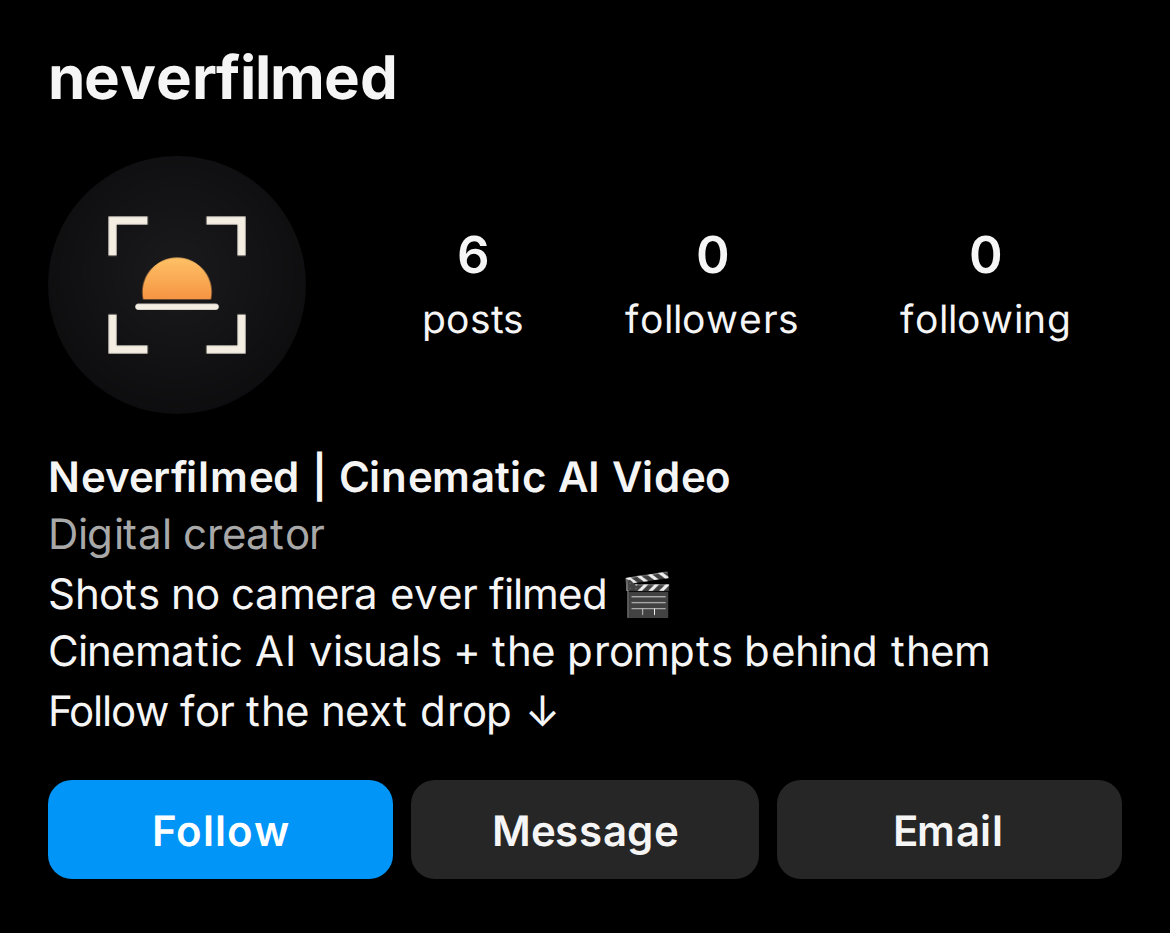
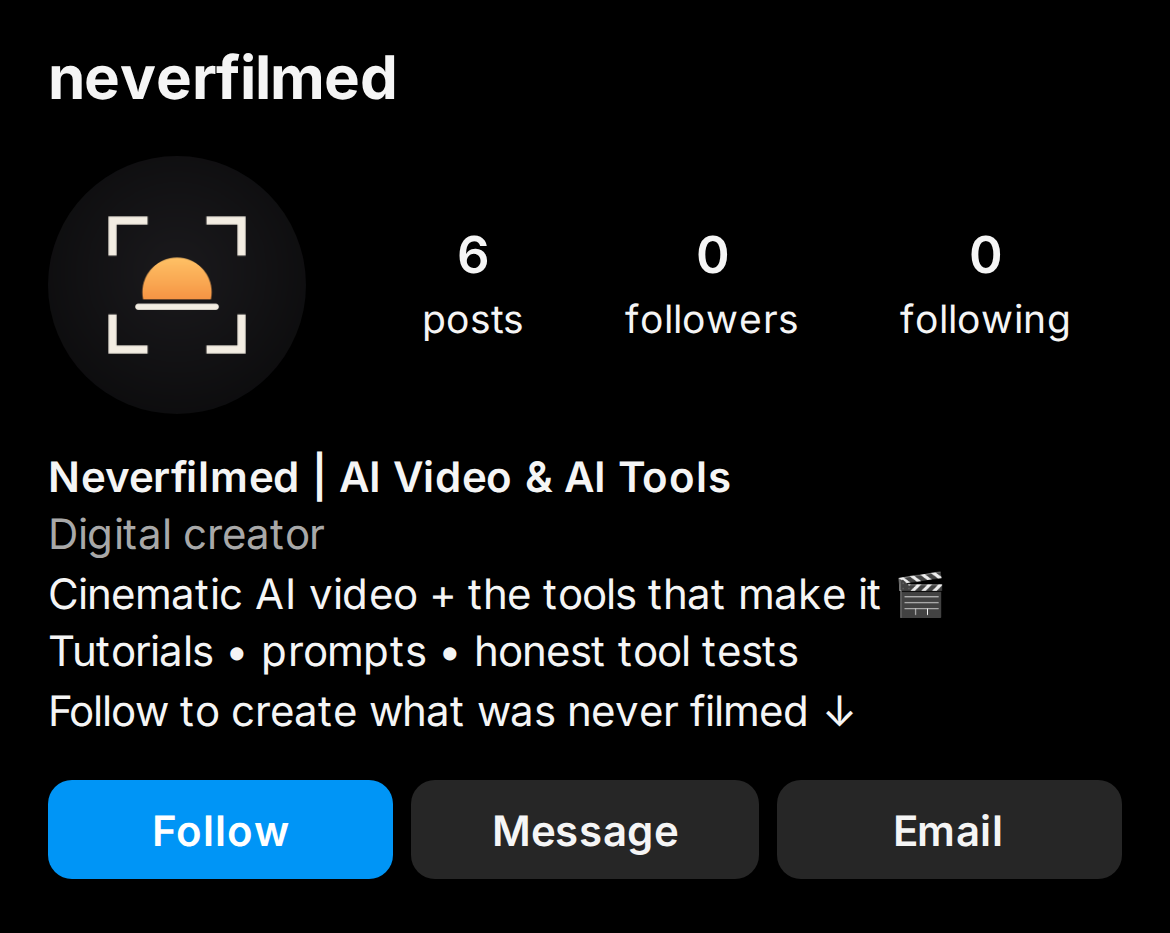
Rework neverfilmed profile copy to cover AI video and AI tools
Name field and bio options now name both halves of the niche (AI video
and AI tools: tutorials, prompts, tool tests); profile previews re-rendered.

Claude-Session: https://claude.ai/code/session_01Mxh84jy8okTmJe73sTrwga

Changed region(s): [[0.0308, 0.5906, 0.8615, 0.7149], [0.1538, 0.746, 0.7385, 0.7771], [0.2769, 0.4973, 0.6462, 0.5284]]

diff --git a/blog/brand/src/profile.html b/blog/brand/src/profile.html
@@ -37,11 +37,11 @@
       <div><b>0</b><span>following</span></div>
     </div>
   </div>
-  <div class="name">Neverfilmed | Cinematic AI Video</div>
+  <div class="name">Neverfilmed | AI Video &amp; AI Tools</div>
   <div class="cat">Digital creator</div>
-  <div class="bio">Shots no camera ever filmed 🎬
-Cinematic AI visuals + the prompts behind them
-Follow for the next drop ↓</div>
+  <div class="bio">Cinematic AI video + the tools that make it 🎬
+Tutorials • prompts • honest tool tests
+Follow to create what was never filmed ↓</div>
   <div class="btns">
     <div class="btn primary">Follow</div>
     <div class="btn">Message</div>

diff --git a/blog/brand/README.md b/blog/brand/README.md
@@ -1,6 +1,6 @@
 # neverfilmed — брендинг Instagram
 
-Блог: англоязычные Reels без лица, ниша — кинематографичное AI-видео.
+Блог: англоязычные Reels без лица. Ниша — AI-видео и AI-инструменты: кинематографичные ролики, туториалы, промпты, тесты и сравнения инструментов.
 
 ## Логотип (аватарка)
 
@@ -19,29 +19,29 @@
 ## Шапка профиля
 
 **Поле «Имя»** (до 64 символов, участвует в поиске):
-- `Neverfilmed | Cinematic AI Video` — с ключевыми словами для поиска (рекомендую)
-- `Neverfilmed | Cinematic Visuals` — без слова «AI»
+- `Neverfilmed | AI Video & AI Tools` — обе части темы, ключевые слова для поиска (рекомендую)
+- `Neverfilmed | AI Video & Tools` — короче
 
 **Категория:** Digital creator
 
-**Описание** (до 150 символов). Вариант A — рекомендую:
+**Описание** (до 150 символов). Вариант A, 127 символов, рекомендую:
 ```
-Shots no camera ever filmed 🎬
-Cinematic AI visuals + the prompts behind them
+Cinematic AI video + the tools that make it 🎬
+Tutorials • prompts • honest tool tests
+Follow to create what was never filmed ↓
+```
+
+Вариант B, 119 символов, упор на обзоры инструментов:
+```
+AI video tools, tested so you don't have to 🎬
+Prompts, tutorials & side-by-side comparisons
 Follow for the next drop ↓
 ```
 
-Вариант B — без слова «AI»:
+Вариант C, 100 символов, на этап, когда пойдут интеграции:
 ```
-Visuals that were never filmed.
-Every shot comes with its secret 🎬
-Follow for the next drop ↓
-```
-
-Вариант C — на этап, когда пойдут интеграции:
-```
-Cinematic visuals, zero cameras 🎬
-Prompts • breakdowns • tools
+AI video & AI tools: tested, compared, explained
+Prompts • tutorials • reviews
 📩 Collabs: tap Email
 ```
 
